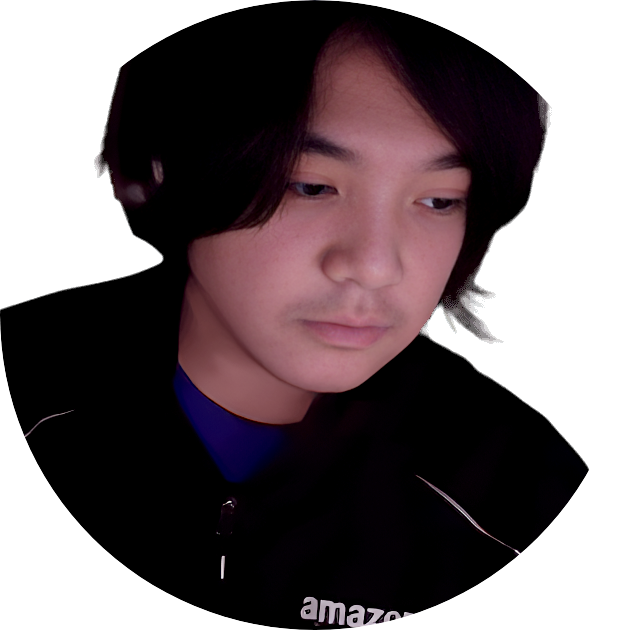
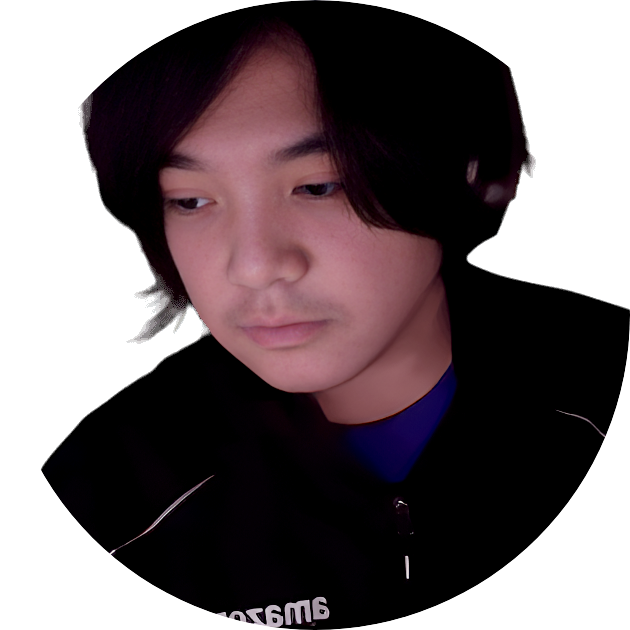
release candidate 1
release candidate commit. changed the hero image with the generative AI image from bing copilot

diff --git a/src/app/main/brands/brands.component.html b/src/app/main/brands/brands.component.html
@@ -91,18 +91,7 @@
                   <li class="carousel__slide">
                       <figure>
                           <div>
-                              <img src="assets/img/AI-resume-compare.png" alt="img 4">
-                          </div>
-                          <figcaption>
-                            AI can spin a new look for your resume. Is the resume new and improved? You decide!
-                              <span class="credit">Credit: Resume Genius</span>                            
-                          </figcaption>
-                      </figure>
-                  </li>
-                  <li class="carousel__slide">
-                      <figure>
-                          <div>
-                              <img src="assets/img/AI-interview-prep.png" alt="img 5">
+                              <img src="assets/img/AI-interview-prep.png" alt="img 4">
                           </div>
                           <figcaption>
                               AI can help you prepare for career interviews
@@ -113,7 +102,7 @@
                   <li class="carousel__slide">
                       <figure>
                           <div>
-                              <img src="assets/img/AI-generated-video.png" alt="img 6">
+                              <img src="assets/img/AI-generated-video.png" alt="img 5">
                           </div>
                           <figcaption>
                               <a href="https://www.youtube.com/watch?v=SR3Am-RLqrs">(Click to view video) AI can generate videos </a>
@@ -124,7 +113,7 @@
                   <li class="carousel__slide">
                     <figure>
                         <div>
-                            <img src="assets/img/AI-eye-contact.png" alt="img 7">
+                            <img src="assets/img/AI-eye-contact.png" alt="img 6">
                         </div>
                         <figcaption>
                             AI can help make corrections in your content (in this sample: eye contact)
@@ -132,29 +121,40 @@
                         </figcaption>
                     </figure>
                 </li>
+                <li class="carousel__slide">
+                  <figure>
+                      <div>
+                          <img src="assets/img/AI-more.png" alt="img 7">
+                      </div>
+                      <figcaption>
+                          AI isn't just limited to generated content and large language models. AI has disrupted, and will disrupt other industries, such as automation, hospitality, manufacturing, retail, and more.
+                          <span class="credit">Credit: Pixel 4K</span>                            
+                      </figcaption>
+                  </figure>
+              </li>
               </ul>    
               <ul class="carousel__thumbnails">
                   <li>
-                      <label for="slide-1"><img src="assets/img/AI-fizzbuzz.png" alt=""></label>
+                      <label for="slide-1"><img src="assets/img/AI-fizzbuzz.png" alt="Fizzbuzz in Python"></label>
                   </li>
                   <li>
-                      <label for="slide-2"><img src="assets/img/AI-let-it-go.png" alt=""></label>
+                      <label for="slide-2"><img src="assets/img/AI-let-it-go.png" alt="Frozen Let It Go Cover by Freddie Mercury"></label>
                   </li>
                   <li>
-                      <label for="slide-3"><img src="assets/img/AI-mlk-essay.png" alt=""></label>
+                      <label for="slide-3"><img src="assets/img/AI-mlk-essay.png" alt="Martin Luther King AI Generated Essay"></label>
                   </li>
                   <li>
-                      <label for="slide-4"><img src="assets/img/AI-resume-compare.png" alt=""></label>
+                      <label for="slide-4"><img src="assets/img/AI-interview-prep.png" alt="AI Generated Interview Questions"></label>
                   </li>
                   <li>
-                      <label for="slide-5"><img src="assets/img/AI-interview-prep.png" alt=""></label>
+                      <label for="slide-5"><img src="assets/img/AI-generated-video.png" alt="AI Generated Video"></label>
                   </li>
                   <li>
-                      <label for="slide-6"><img src="assets/img/AI-generated-video.png" alt=""></label>
-                  </li>
-                  <li>
-                    <label for="slide-7"><img src="assets/img/AI-eye-contact.png" alt=""></label>
+                    <label for="slide-6"><img src="assets/img/AI-eye-contact.png" alt="AI Fix Eye Contact"></label>
                 </li>
+                <li>
+                  <label for="slide-7"><img src="assets/img/AI-more.png" alt="AI does a lot more"></label>
+              </li>
                   
               </ul>
           </div>

diff --git a/src/app/main/about/about.component.html b/src/app/main/about/about.component.html
@@ -6,19 +6,21 @@
             <div class="about-text">
                 
                 <h6>About - Hector De Perio</h6>
-                <h3>A little more about me and this website:</h3>
+              
                 <p>My first programming language was C++. I think I first wrote a calculator program with it. I still use it today.</p>
-                <p>Since 2021, I have dipped into front end software development, and learned Angular and React frameworks, along with HTML, CSS, Bootstrap, NodeJS, and the rest of the modern frontend package.</p>
+                <p>Since 2021, I dipped into front end software development. I learned Angular, Bootstrap, Node.JS, React and the rest of the modern frontend package, and then some more CSS and HTML.</p>
                 <p>This page was made in Angular, a Google service.</p>
                 <p>I probably could have used React to make this portfolio and it would probably look the same. To see the work that I created with React, please visit:</p>
                 <p ><a href="https://github.com/calcomsci" style="color:white">My Github Page</a></p>
-                <p>Please Note: LinkedIn is the only functional link below. I have intentionally left the rest of them blank.</p>
+                <p></p>
                 <div class="social-icon">
-                    <a href="javascript:" title="Meta" alt="Meta" text="Meta"><i class="fab fa-facebook-f"></i></a>
+                    <!--<a href="javascript:" title="Meta" alt="Meta" text="Meta"><i class="fab fa-facebook-f"></i></a>
                     <a href="javascript:" title="X (formerly Twitter)" alt="X (formerly Twitter)" text="X (formerly Twitter)"><i class="fab fa-twitter"></i></a>
                     <a href="javascript:" title="Instagram" alt="Instagram" text="Instagram"><i class="fab fa-instagram"></i></a>
-                    <a href="https://www.linkedin.com/in/hectorperio/" title="LinkedIn" alt="LinkedIn" text="LinkedIn"><i class="fab fa-linkedin-in"></i></a>
                     <a href="javascript:" title="Pinterest" alt="Pinterest" text="Pinterest"><i class="fab fa-pinterest"></i></a>
+                  -->
+                    <a href="https://www.linkedin.com/in/hectorperio/" title="LinkedIn" alt="LinkedIn" text="LinkedIn"><i class="fab fa-linkedin-in"></i></a>
+                    
                 </div>
             </div>
         </div>
@@ -58,9 +60,11 @@
                   </div>
                 <br>-->
             </div>
-            <img src="assets/img/hero-circ.png" title="AI-generated version of me" alt="AI-generated image">
-            <br>
-            <!--<p>This is an AI-generated realistic photo of me, according to machines.</p>-->
+            <img src="assets/img/AI-gen-eng.png" title="AI-generated version of me" alt="AI-generated image">
+            <p>Generative AI images of me by <a href="https://www.bing.com/images/create/hector-de-perio-software-engineer--thirty-years-ol/1-65bb3b109f994128ac46d0e3c6532ef9?FORM=GUH2CR">Bing Copilot</a></p>
+            <!--<img src="assets/img/hero-circ.png" title="AI-generated version of me" alt="AI-generated image">-->
+          
+            
         </div>
     </div>
 </div>

diff --git a/src/app/main/home/home.component.html b/src/app/main/home/home.component.html
@@ -25,7 +25,7 @@
                     </div>
                     <div class="r-box">
                         <h3>I used these to build this site:<span>+</span></h3>
-                        <label>Angular, Github, HTML, JavaScript, SCSS, VS Code</label>
+                        <label>Angular, Github, HTML, JavaScript, SCSS, Visual Studio Code</label>
                     </div>
                     <!--<div class="r-box">
                         <h3>Tech <span>+</span></h3>
@@ -36,8 +36,10 @@
         </div>
         <div class="col-lg-5">
             <div class="hs-banner">
-                <img src="assets/img/AI-gen-eng.png" title="" alt="">
-                <p>Generative AI images of me.</p>
+                <img src="assets/img/hero-img-no-bg.png" title="hero image" alt="hero image">
+                <!--<img src="assets/img/AI-gen-eng.png" title="" alt="">-->
+                <!--<p>Generative AI images of me by <a href="https://www.bing.com/images/create/hector-de-perio-software-engineer--thirty-years-ol/1-65bb3b109f994128ac46d0e3c6532ef9?FORM=GUH2CR">Bing Copilot</a></p>-->
+                <p>Hello, world</p>
             </div>
         </div>
     </div>
